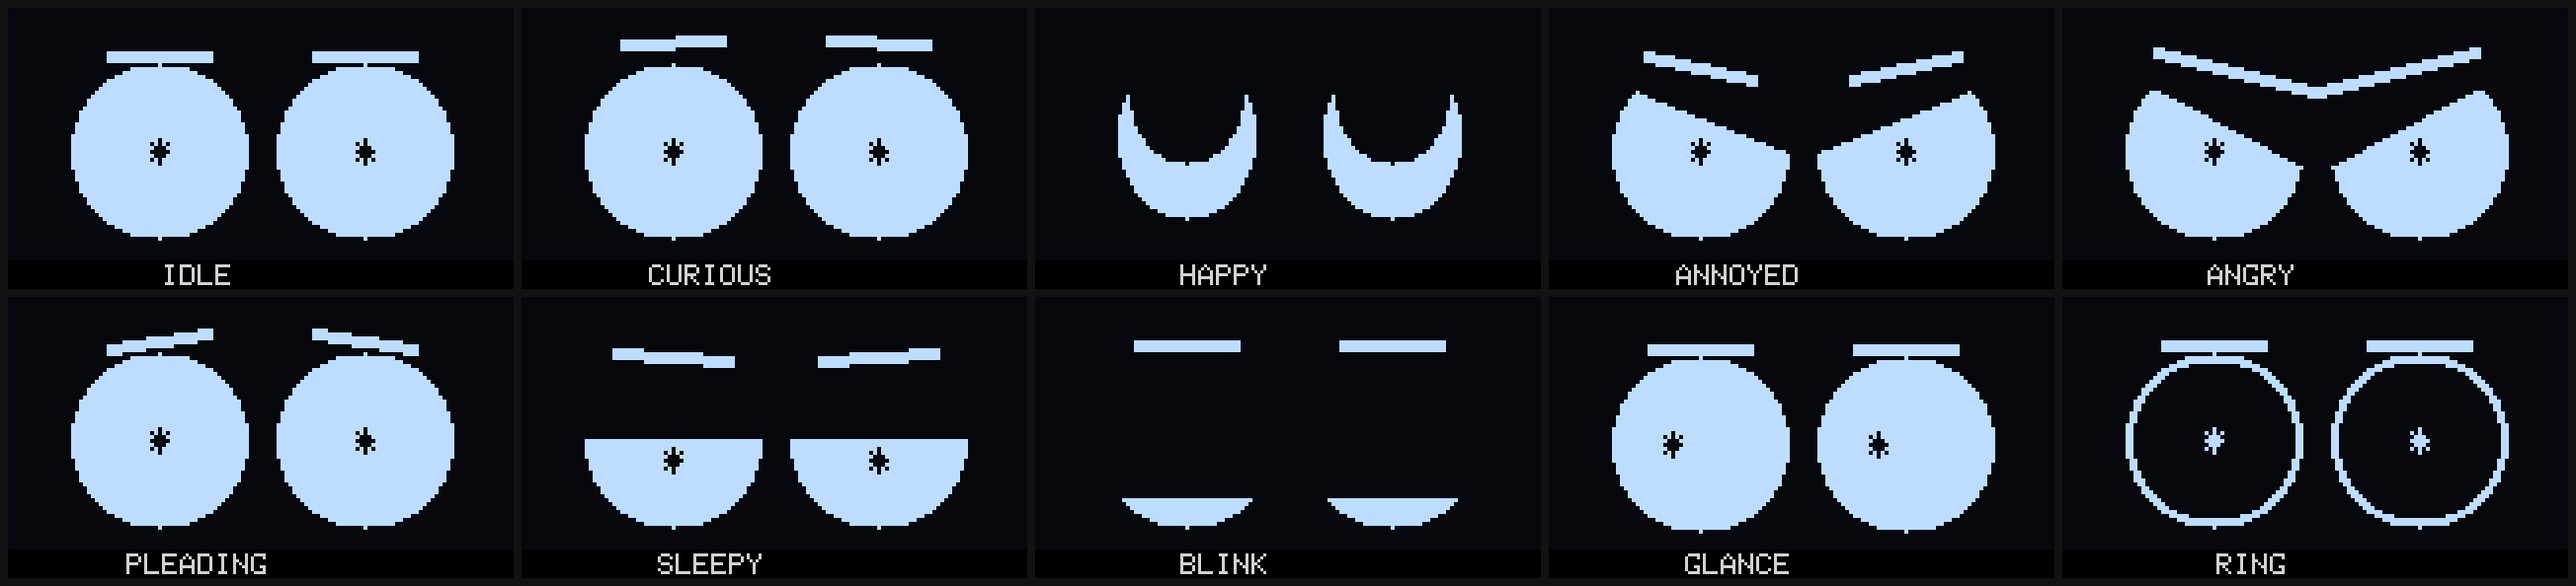
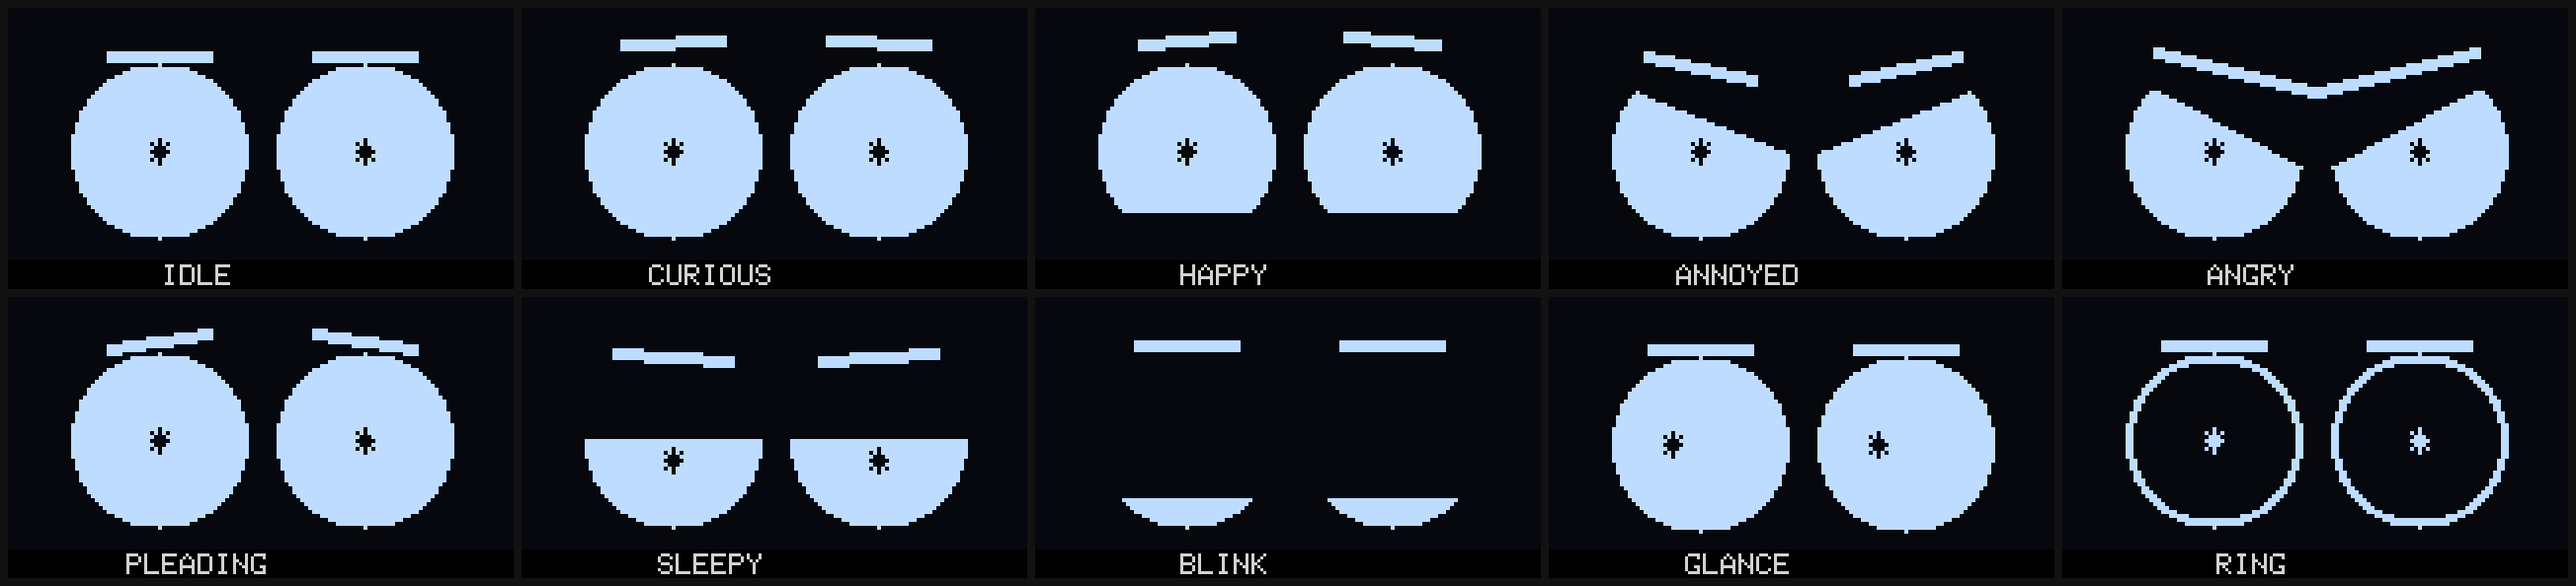
eyes: happy without leaving the style
The smile-arc eye came from a different cartoon. In this style the eyes stay
round and the smile is carried by the lower lid pushing up into them, the way
a cheek does when the mouth is smiling, plus brows that ride high and tilt
slightly up at the bridge.

Changed region(s): [[0.4038, 0.0606, 0.5901, 0.3939]]

diff --git a/tools/preview/preview.c b/tools/preview/preview.c
@@ -117,8 +117,8 @@ static const shot_t k_shots[] = {
     { .label = "CURIOUS", .shape = EYE_SHAPE_STAR_SOLID, .pupil = PUPIL_BLOB, .open_rest = 1.12f, .seed = 1, .t_ms = 300,
       .brow_len = 62, .brow_lift = 6, .brow_tilt = -1 },
     // 2: happy — brows level
-    { .label = "HAPPY", .shape = EYE_SHAPE_HAPPY, .pupil = PUPIL_BLOB, .open_rest = 1.00f, .seed = 1, .t_ms = 300,
-      .brow_len = 60, .brow_lift = 4, .brow_tilt = 0, .brow_thick = 3 },
+    { .label = "HAPPY", .shape = EYE_SHAPE_STAR_SOLID, .pupil = PUPIL_BLOB, .open_rest = 1.00f, .seed = 1, .t_ms = 300,
+      .lid_bottom_pct = 15, .brow_len = 58, .brow_lift = 6, .brow_tilt = -2, .brow_thick = 3 },
     // 3: annoyed — tilted lids, brows pulled down
     { .label = "ANNOYED", .shape = EYE_SHAPE_STAR_SOLID, .pupil = PUPIL_BLOB, .open_rest = 1.00f, .seed = 1, .t_ms = 300,
       .lid_pct = 32, .lid_angle = 22, .brow_len = 64, .brow_lift = 3, .brow_tilt = 6, .brow_thick = 3 },

diff --git a/src/mood.c b/src/mood.c
@@ -25,9 +25,14 @@ const mood_params_t k_moods[MOOD_COUNT] = {
     },
     [MOOD_HAPPY] = {
         .name = "happy",
+        // The eyes stay round — that is the whole point of the style. The smile
+        // comes from the lower lid pushing up into the eye, the way a cheek
+        // does, and from brows that ride high and level. A crescent eye would
+        // read as a different cartoon.
         .eyes = { .open_rest = 1.00f, .gaze_amp = 1.20f,
-                  .shape = EYE_SHAPE_HAPPY, .blink_min_ms = 1200, .blink_max_ms = 2600,
-                  .brow_len = 60, .brow_lift = 4, .brow_tilt = 0, .brow_thick = 3 },
+                  .shape = EYE_SHAPE_STAR_SOLID, .blink_min_ms = 1200, .blink_max_ms = 2600,
+                  .lid_bottom_pct = 15,
+                  .brow_len = 58, .brow_lift = 6, .brow_tilt = -2, .brow_thick = 3 },
         .duration_ms = 4000,
     },
     [MOOD_PLEADING] = {

diff --git a/README.md b/README.md
@@ -96,7 +96,7 @@ two pixels read as a hairline at this size, three read as a brow.
 |---|---|---|
 | idle | default | neutral caps, blink every 2-6 s |
 | curious | one tap | wider eyes, fast gaze, 2.5 s |
-| happy | two taps within 1.2 s | smile-arc eyes, 4 s |
+| happy | two taps within 1.2 s | eyes squeezed from below, brows high, 4 s |
 | pleading | three taps within 2 s | brows raised and pinched at the bridge, 4 s |
 | annoyed | four taps within 3 s | tilted lids, brows pulled down, 3 s |
 | angry | holding the pad 1.5 s | monobrow, steeper lids, 3.5 s |
